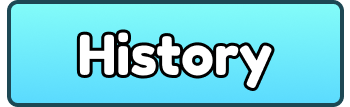
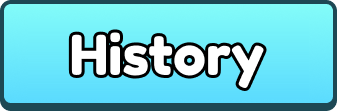
people-detail: History button under the chart, styled and animated like the home page Top Clans button
- button images rebuilt from topclans.png / topclans-selected.png with the History text
- same hover (grow) and press (selected image, shrink) as the Top Clans button, scaled to 219x72
- hourly chart card shortened to make room

Claude-Session: https://claude.ai/code/session_018QRxeoZ8KeB3zgkXrTnBkC

Changed region(s): [[0.178, 0.2523, 0.8012, 0.757], [0.0, 0.0, 1.0, 1.0], [0.6825, 0.729, 0.7418, 0.8692]]

diff --git a/people-detail/index.html b/people-detail/index.html
@@ -249,7 +249,7 @@
         .pd-stat-value.is-na { color: #B1B1B1; -webkit-text-stroke: 0; font-size: 24px; }
 
         /* --- graf --- */
-        .pd-chart-card { position: absolute; left: 0; top: 214px; width: 736px; height: 330px; }
+        .pd-chart-card { position: absolute; left: 0; top: 214px; width: 736px; height: 250px; }
         .pd-chart-title { position: absolute; left: 16px; top: 6px; font-size: 22px; line-height: 28px; -webkit-text-stroke: 5px #000000; }
         .pd-chart-sub { position: absolute; left: 16px; top: 36px; font-size: 13px; font-weight: 700 !important; color: #696A6E; white-space: nowrap; max-width: 440px; overflow: hidden; text-overflow: ellipsis; }
         .pd-badge { position: absolute; right: 16px; top: 9px; display: flex; align-items: center; gap: 6px; font-size: 14px; font-weight: 700 !important; color: #262C2D; pointer-events: none; }
@@ -261,7 +261,7 @@
         .pd-legend i { display: inline-block; }
         .pd-leg-dot { width: 10px; height: 10px; border-radius: 50%; background: #FFFFFF; border: 2px solid #000000; }
         .pd-leg-dash { width: 18px; height: 0; border-top: 2px dashed #262C2D; opacity: 0.6; }
-        .pd-chart-svg { position: absolute; left: 6px; top: 58px; width: 716px; height: 262px; overflow: visible; }
+        .pd-chart-svg { position: absolute; left: 6px; top: 58px; width: 716px; height: 186px; overflow: visible; }
         .pd-chart-svg text { font-family: 'Fredoka', sans-serif; font-weight: 700; font-size: 11px; fill: #262C2D; }
         .pd-hit { fill: transparent; cursor: pointer; }
         .pd-tip {
@@ -276,17 +276,17 @@
         .pd-chart-msg-sub { font-size: 18px; font-weight: 700 !important; color: #9E9E9E; line-height: 1.25; }
 
         /* ===== Historie válek (tlačítko v levém panelu + druhý pohled v okně) ===== */
+        /* Tlačítko History pod grafem: stejný vzhled i animace jako "Top Clans" na úvodní stránce
+           (zmenšené na 65 %: 337x111 -> 219x72, najetí 345x117 -> 224x76, stisk 325x103 -> 211x67) */
         .pd-hist-btn {
-            position: absolute; left: 19px; top: 384px; width: 254px; height: 78px; display: none;
+            position: absolute; left: 258px; top: 470px; width: 219px; height: 72px; display: none;
             background: url("/images/history-button.png") no-repeat center center; background-size: 100% 100%;
-            cursor: pointer; z-index: 990; filter: drop-shadow(0px 4px 6px rgba(0, 0, 0, 0.15));
-            transition: transform 0.044s cubic-bezier(0.1, 0.9, 0.2, 1); transform-origin: center center;
-            -webkit-tap-highlight-color: transparent;
+            cursor: pointer; z-index: 20; -webkit-tap-highlight-color: transparent;
+            transition: all 0.044s cubic-bezier(0.1, 0.9, 0.2, 1);
         }
         .pd-hist-btn.is-ready { display: block; }
-        .pd-hist-btn:hover:not(:active) { transform: scale(1.05); }
-        .pd-hist-btn:active, .pd-hist-btn.is-on { background-image: url("/images/history-button-clicked.png"); }
-        .pd-hist-btn:active { transform: scale(0.95); }
+        .pd-hist-btn:hover:not(:active) { left: 256px; top: 468px; width: 224px; height: 76px; }
+        .pd-hist-btn:active { background-image: url("/images/history-button-clicked.png"); left: 262px; top: 473px; width: 211px; height: 67px; }
 
         .ph-scroll {
             position: absolute; left: 334px; top: 7px; width: 770px; height: 556px; display: none;
@@ -485,7 +485,6 @@
                 <div class="custom-back-btn" onclick="goBack()">
                     <img class="custom-back-text" src="/images/Back-text.png" draggable="false">
                 </div>
-                <div class="pd-hist-btn" id="pdHistBtn" role="button" tabindex="0" aria-label="Clan war history" title="Clan war history"></div>
 
                 <div class="ph-scroll" id="phScroll"><div class="ph-inner" id="phInner"></div></div>
 
@@ -536,13 +535,15 @@
                         <div class="pd-chart-sub" id="pdChartSub"></div>
                         <div class="pd-badge" id="pdBadge"><span class="pd-dot"></span><span id="pdBadgeText"></span></div>
                         <div class="pd-legend"><span><i class="pd-leg-dot"></i>Hourly points</span><span><i class="pd-leg-dash"></i>Average</span></div>
-                        <svg class="pd-chart-svg" id="pdChartSvg" viewBox="0 0 716 262"></svg>
+                        <svg class="pd-chart-svg" id="pdChartSvg" viewBox="0 0 716 186"></svg>
                         <div class="pd-tip" id="pdTip"><div class="pd-tip-title" id="pdTipTitle"></div><div class="pd-tip-body" id="pdTipBody"></div></div>
                         <div class="pd-chart-msg" id="pdChartMsg">
                             <div class="pd-chart-msg-main" id="pdChartMsgMain"></div>
                             <div class="pd-chart-msg-sub" id="pdChartMsgSub"></div>
                         </div>
                     </div>
+
+                    <div class="pd-hist-btn" id="pdHistBtn" role="button" tabindex="0" aria-label="Clan war history" title="Clan war history"></div>
                 </div>
             </div>
 
@@ -694,7 +695,7 @@
         const pad2 = x => String(x).padStart(2, "0");
         const hh = ts => pad2(new Date(ts * 1000).getHours());
 
-        const SVG_W = 716, SVG_H = 262, PAD_L = 54, PAD_R = 26, PAD_T = 26, PAD_B = 28;
+        const SVG_W = 716, SVG_H = 186, PAD_L = 54, PAD_R = 26, PAD_T = 26, PAD_B = 28;
 
         function setStats(history, ended, available) {
             const vals = ["stTotal", "stAvg", "stBest", "stLatest"];
@@ -1130,7 +1131,6 @@
         function showView(view, mode) {
             const hist = view === "history" && !!pdPlayer;
             $("phScroll").classList.toggle("is-visible", hist);
-            $("pdHistBtn").classList.toggle("is-on", hist);
             $("pdContent").classList.toggle("is-visible", !hist && pdHasDetail);
             $("centerMsg").style.display = (!hist && !pdHasDetail) ? "block" : "none";
             if (mode === "push") { history.pushState({ v: view }, "", urlFor(view)); histPushed = hist; }
